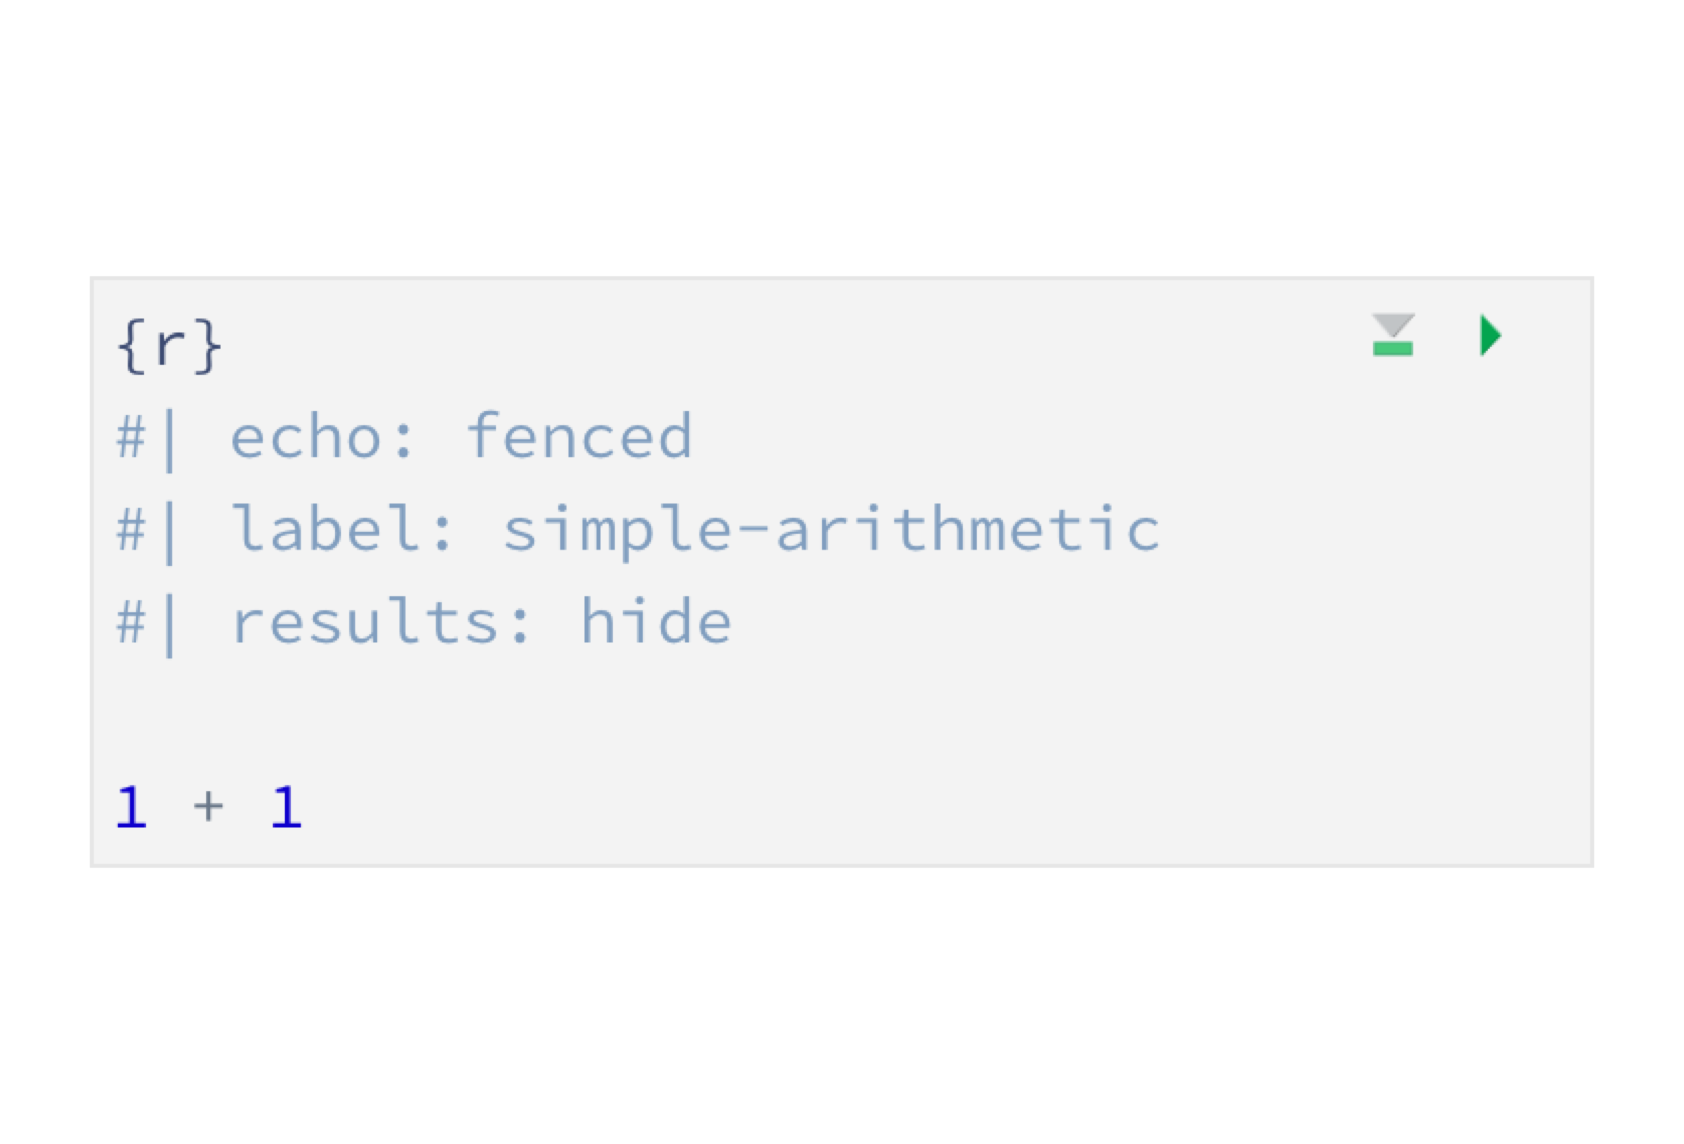
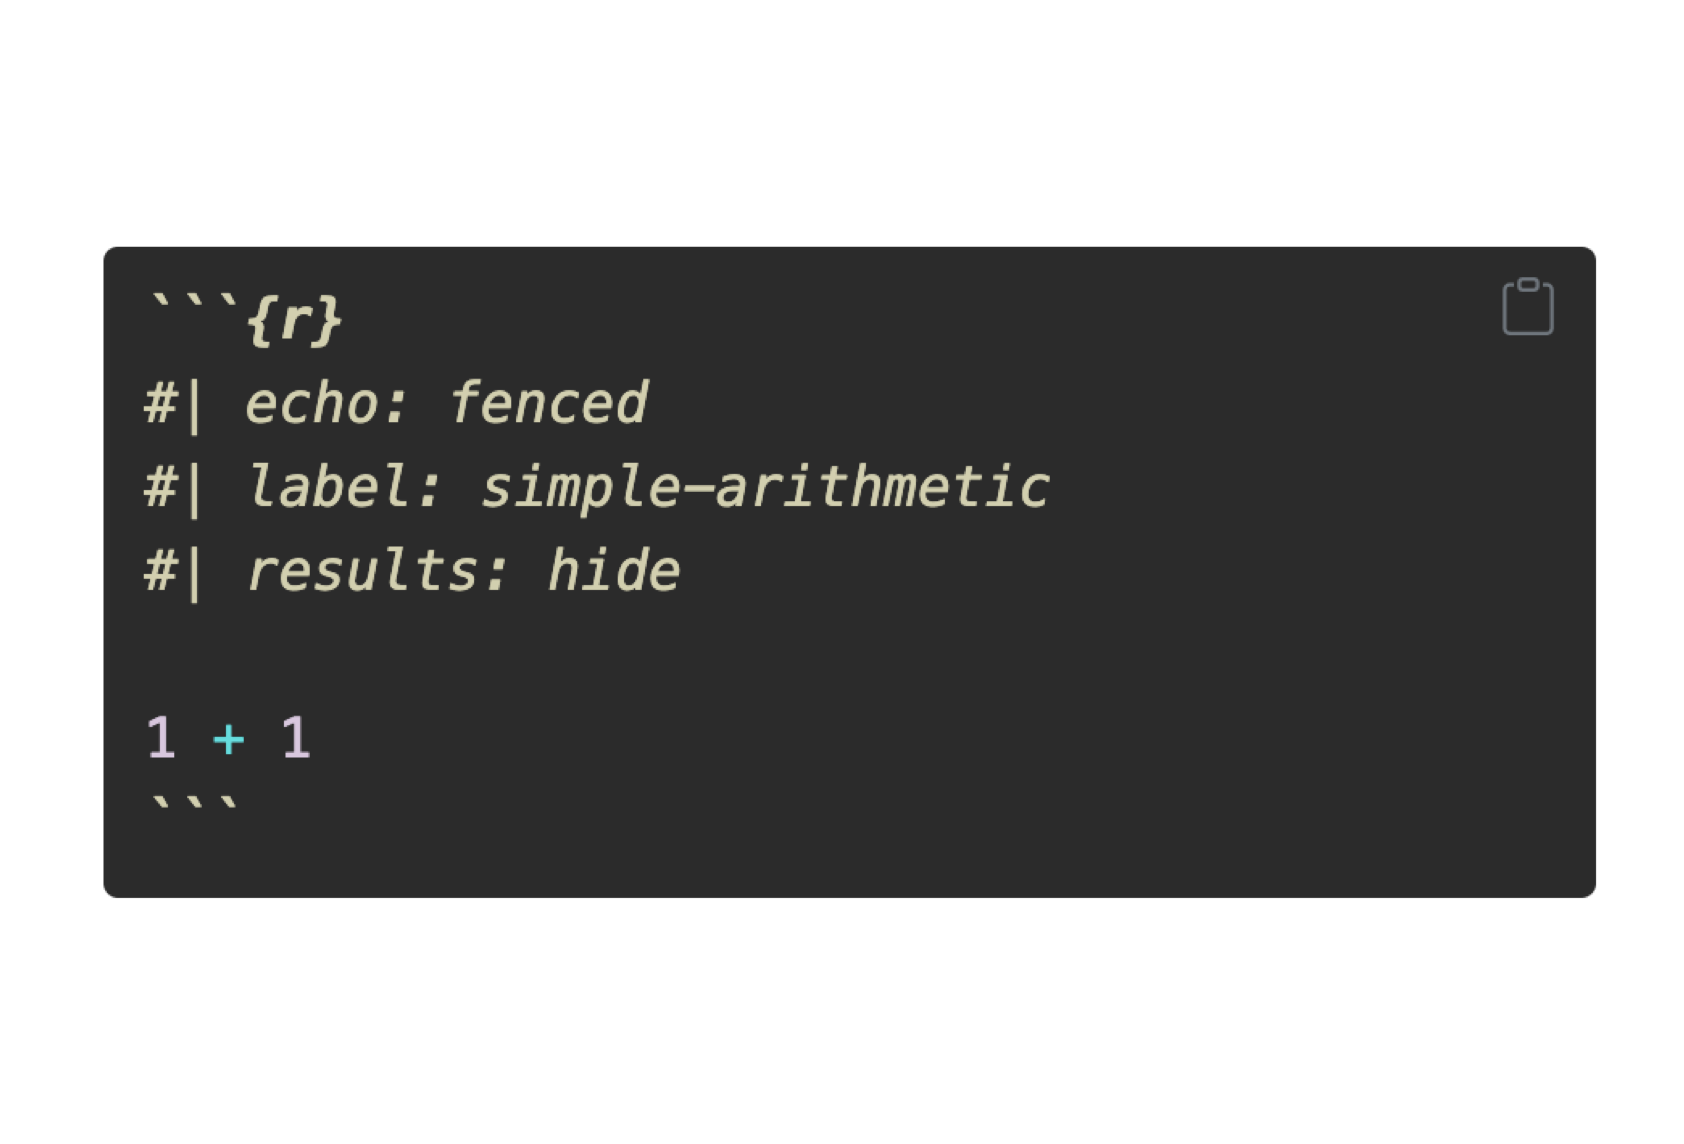
Deploying to gh-pages from @ mine-cetinkaya-rundel/quarto-tip-a-day@89d68090df3dc4c711a592d971ac709f75e8b70f 🚀

diff --git a/posts/01-side-by-side-tables/index.html b/posts/01-side-by-side-tables/index.html
@@ -127,6 +127,7 @@ code span.wa { color: #60a0b0; font-weight: bold; font-style: italic; } /* Warni
 <meta name="twitter:creator" content="@quarto_pub">
 <meta name="twitter:image-height" content="600">
 <meta name="twitter:image-width" content="1200">
+<meta name="twitter:image:alt" content="Two tables side by side. On the left is the first six rows and first three columns of the mtcars dataset. On the right is the first six rows and all two columns of the cars dataset.">
 <meta name="twitter:card" content="summary_large_image">
 </head>
 
@@ -235,12 +236,12 @@ code span.wa { color: #60a0b0; font-weight: bold; font-style: italic; } /* Warni
 <span id="cb1-11"><a href="#cb1-11" aria-hidden="true" tabindex="-1"></a><span class="co"># table on the right</span></span>
 <span id="cb1-12"><a href="#cb1-12" aria-hidden="true" tabindex="-1"></a><span class="fu">kable</span>(<span class="fu">head</span>(cars))</span>
 <span id="cb1-13"><a href="#cb1-13" aria-hidden="true" tabindex="-1"></a><span class="in">```</span></span></code><button title="Copy to Clipboard" class="code-copy-button"><i class="bi"></i></button></pre></div>
-<div id="tbl-anonymous-4163123" class="cell tbl-parent quarto-layout-panel anchored">
+<div id="tbl-anonymous-7660294" class="cell tbl-parent quarto-layout-panel anchored">
 <div class="panel-caption table-caption">
 <p>Two tables</p>
 </div>
 <div class="quarto-layout-row quarto-layout-valign-top">
-<div id="tbl-anonymous-4163123-1" class="quarto-layout-cell quarto-layout-cell-subref anchored" data-ref-parent="tbl-anonymous-4163123" style="flex-basis: 50.0%;justify-content: center;">
+<div id="tbl-anonymous-7660294-1" class="quarto-layout-cell quarto-layout-cell-subref anchored" data-ref-parent="tbl-anonymous-7660294" style="flex-basis: 50.0%;justify-content: center;">
 <table class="table table-sm table-striped">
 <caption>mtcars</caption>
 <thead>
@@ -291,7 +292,7 @@ code span.wa { color: #60a0b0; font-weight: bold; font-style: italic; } /* Warni
 </tbody>
 </table>
 </div>
-<div id="tbl-anonymous-4163123-2" class="quarto-layout-cell quarto-layout-cell-subref anchored" data-ref-parent="tbl-anonymous-4163123" style="flex-basis: 50.0%;justify-content: center;">
+<div id="tbl-anonymous-7660294-2" class="quarto-layout-cell quarto-layout-cell-subref anchored" data-ref-parent="tbl-anonymous-7660294" style="flex-basis: 50.0%;justify-content: center;">
 <table class="table table-sm table-striped">
 <caption>Just cars</caption>
 <thead>

diff --git a/index.html b/index.html
@@ -174,11 +174,11 @@ ul.task-list{list-style: none;}
     </div>
 </div>
 <div class="list grid quarto-listing-cols-3">
-<div class="g-col-1" data-index="0" data-categories="teaching,documentation" data-listing-date-sort="1656460800000" data-listing-file-modified-sort="1656517533798" data-listing-reading-time-sort="0.58">
+<div class="g-col-1" data-index="0" data-categories="teaching,documentation" data-listing-date-sort="1656460800000" data-listing-file-modified-sort="1656518161131" data-listing-reading-time-sort="0.58">
 <a href="./posts/02-fenced-echo/index.html" class="quarto-grid-link">
 <div class="quarto-grid-item card h-100 card-left">
 <p class="card-img-top">
-<img src="./posts/02-fenced-echo/featured.png" class="thumbnail-image card-img" style="height: 150px;">
+<img src="./posts/02-fenced-echo/featured.png" class="thumbnail-image card-img" style="height: 150px;" alt="An R chunk with YAML-style chunk options echo: fenced, label: simple-arithmetic, results: hide. The R code in the chunk is 1 + 1. The fences of the chunk are also visible.">
 </p>
 <div class="card-body post-contents">
 <h5 class="no-anchor card-title listing-title">
@@ -196,11 +196,11 @@ Jun 29, 2022
 </div>
 </a>
 </div>
-<div class="g-col-1" data-index="1" data-categories="tables" data-listing-date-sort="1656374400000" data-listing-file-modified-sort="1656517533798" data-listing-reading-time-sort="0.23">
+<div class="g-col-1" data-index="1" data-categories="tables" data-listing-date-sort="1656374400000" data-listing-file-modified-sort="1656518161131" data-listing-reading-time-sort="0.23">
 <a href="./posts/01-side-by-side-tables/index.html" class="quarto-grid-link">
 <div class="quarto-grid-item card h-100 card-left">
 <p class="card-img-top">
-<img src="./posts/01-side-by-side-tables/featured.png" class="thumbnail-image card-img" style="height: 150px;">
+<img src="./posts/01-side-by-side-tables/featured.png" class="thumbnail-image card-img" style="height: 150px;" alt="Two tables side by side. On the left is the first six rows and first three columns of the mtcars dataset. On the right is the first six rows and all two columns of the cars dataset.">
 </p>
 <div class="card-body post-contents">
 <h5 class="no-anchor card-title listing-title">

diff --git a/tweets.html b/tweets.html
@@ -120,6 +120,8 @@ ul.task-list{list-style: none;}
 <p>#3 -</p>
 <p>#quartotip 2: Use the echo: fenced chunk option to display the fences around your code chunks in your output. Super useful for teaching Quarto!</p>
 <p>Read more: https://mine-cetinkaya-rundel.github.io/quarto-tip-a-day/posts/01-side-by-side-tables/</p>
+<p>[insert-image]</p>
+<p>alt-text: Two R chunks are displayed. The top R chunk is the output, and shows the chunk options label: simple-arithmetic, results: hide. The R code in the chunk is 1 + 1. Also visible are the fences of the R chunk. The bottom R chunk is the input, which shows the same content as the top chunk, plus an additional chunk option: echo: fenced. The text reads “To get code chunks printed out as [the top chunk], add the echo: fenced option to your chunk”. Code and text can also be found in the linked blog post.</p>
 
 
 

diff --git a/posts/02-fenced-echo/index.html b/posts/02-fenced-echo/index.html
@@ -127,6 +127,7 @@ code span.wa { color: #60a0b0; font-weight: bold; font-style: italic; } /* Warni
 <meta name="twitter:creator" content="@quarto_pub">
 <meta name="twitter:image-height" content="600">
 <meta name="twitter:image-width" content="1200">
+<meta name="twitter:image:alt" content="An R chunk with YAML-style chunk options echo: fenced, label: simple-arithmetic, results: hide. The R code in the chunk is 1 + 1. The fences of the chunk are also visible.">
 <meta name="twitter:card" content="summary_large_image">
 </head>
 
